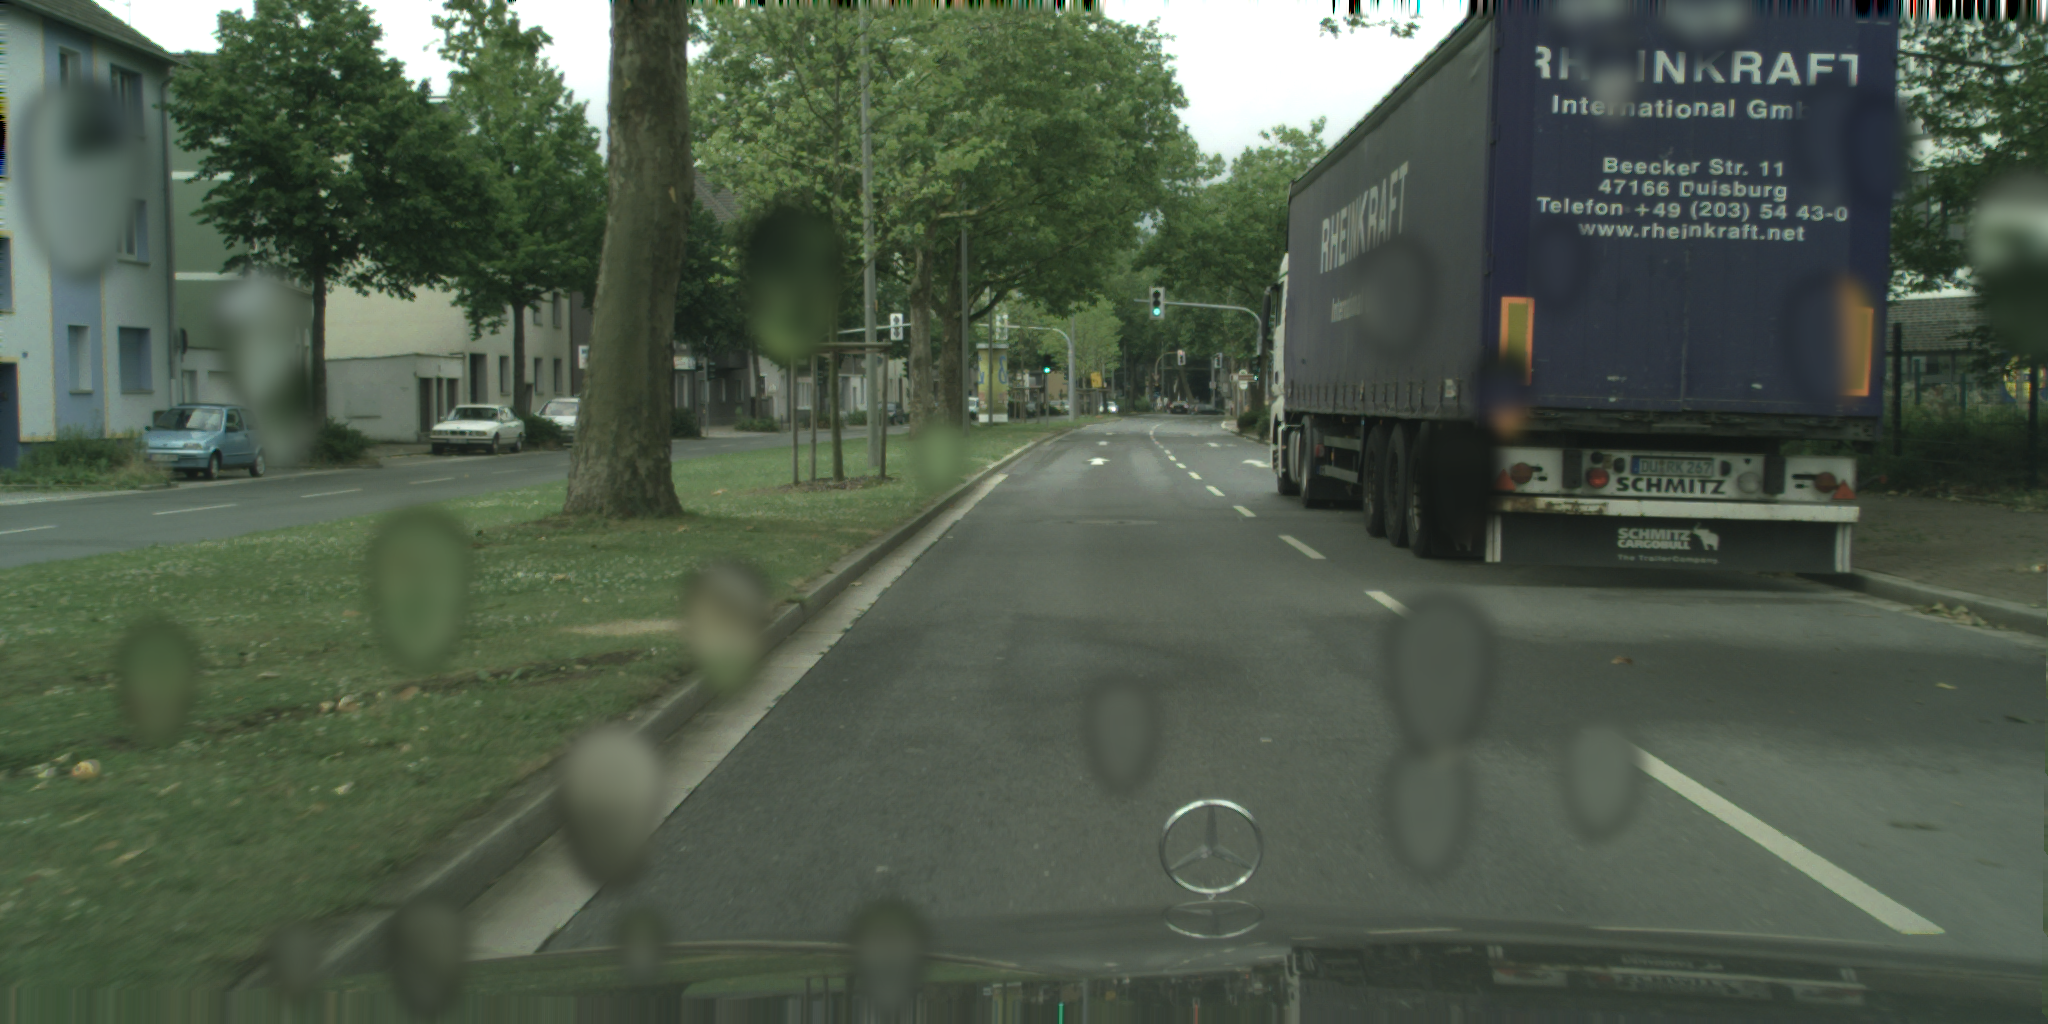
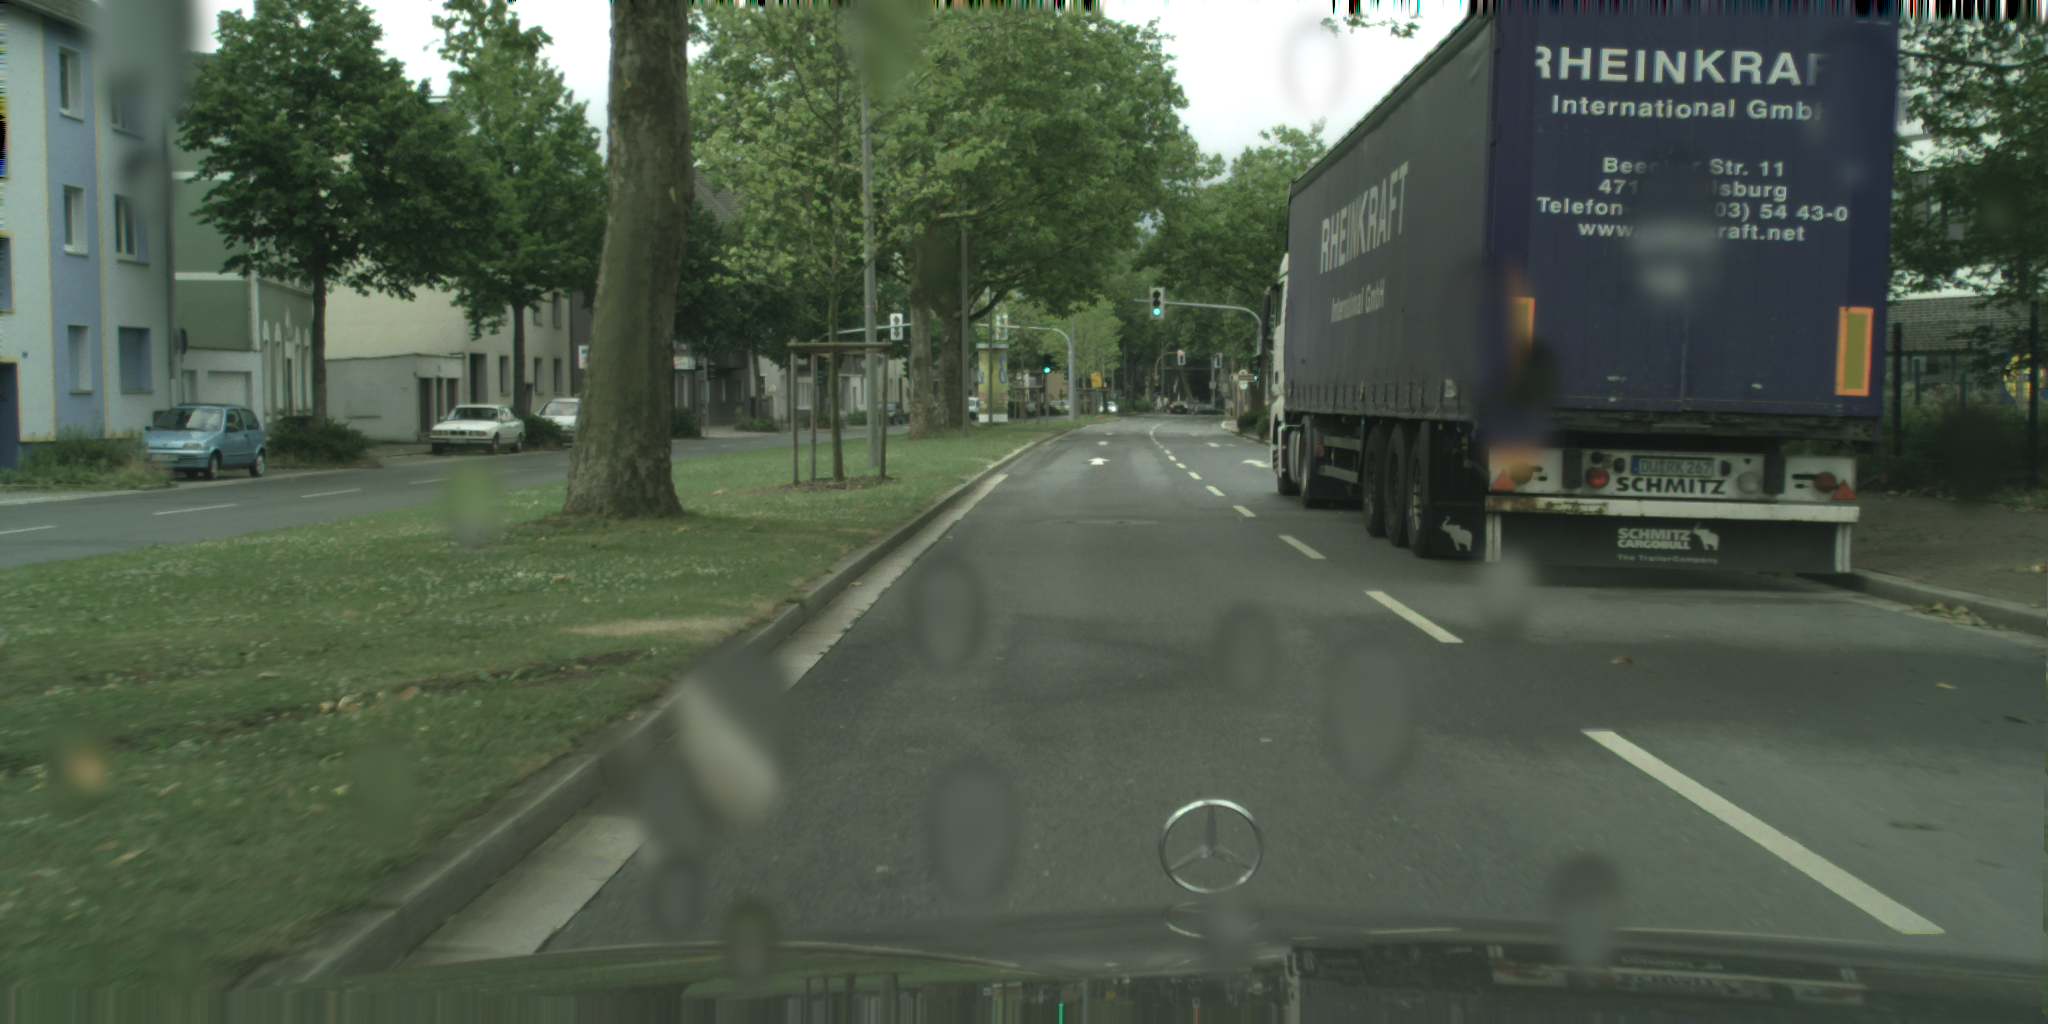
modified drop edge

diff --git a/raindrop/dropgenerator.py b/raindrop/dropgenerator.py
@@ -201,9 +201,9 @@ def generateDrops(imagePath):
 		tmp_alpha_map  = Image.fromarray(tmp_alpha_map.astype('uint8'))		
 
 		edge = ImageEnhance.Brightness(output)
-		brightness = 0.5
+		brightness = 0.3
 		edge = edge.enhance(brightness)
-		PIL_bg_img.paste(edge, (ix-2*radius, iy-3*radius), output)
+		PIL_bg_img.paste(edge, (ix-2*radius, iy-3*radius), tmp_alpha_map)
 		PIL_bg_img.paste(output, (ix-2*radius, iy-3*radius), output)
 	return PIL_bg_img
 
